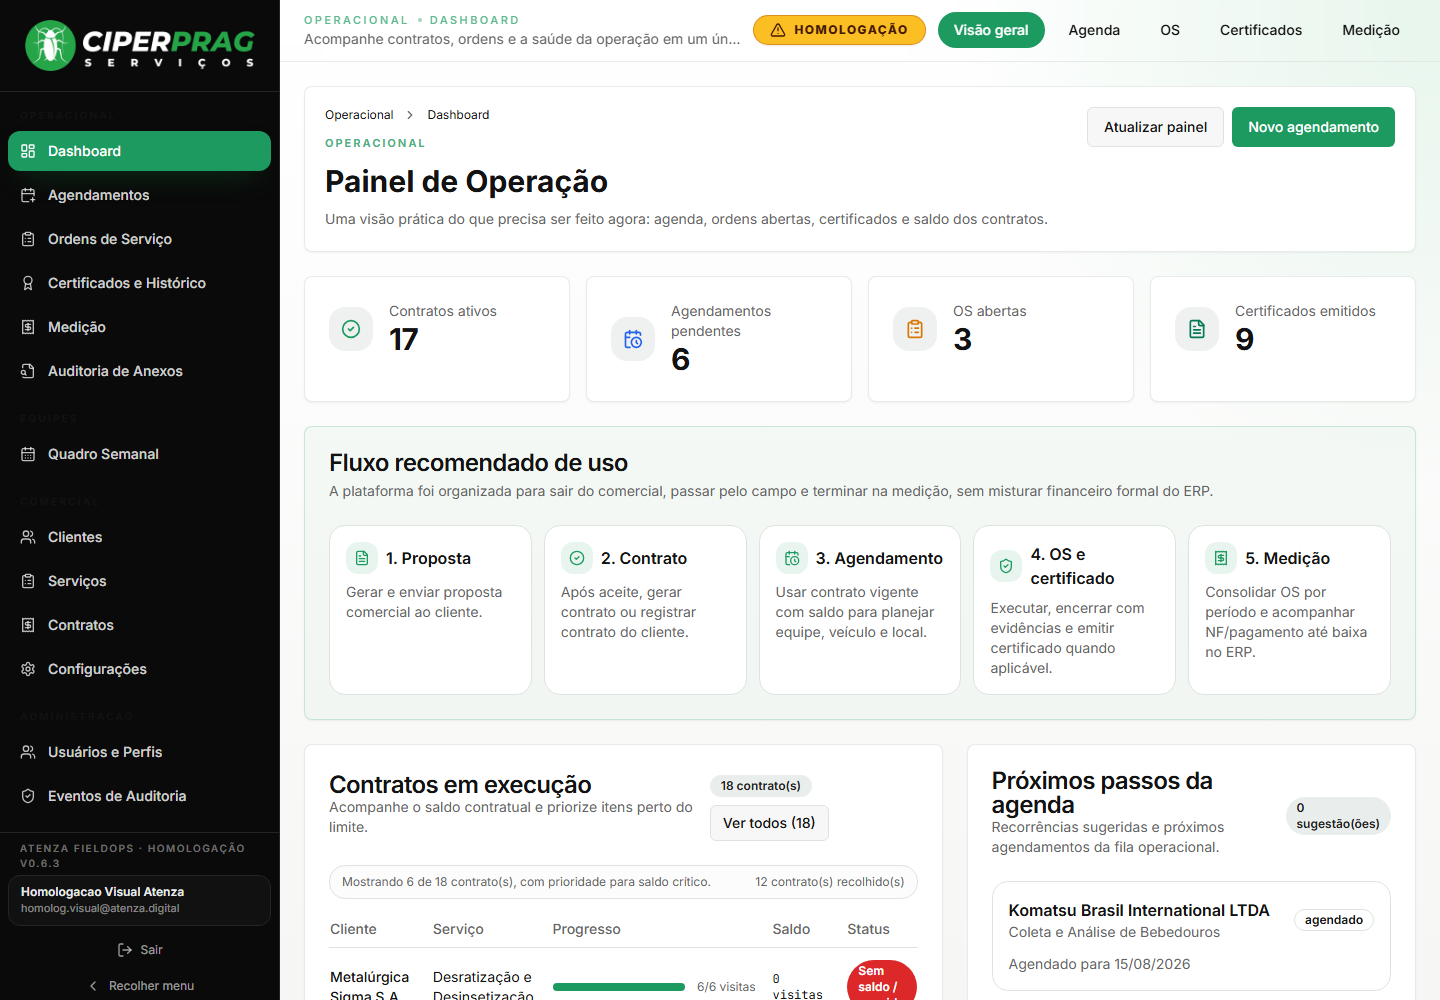
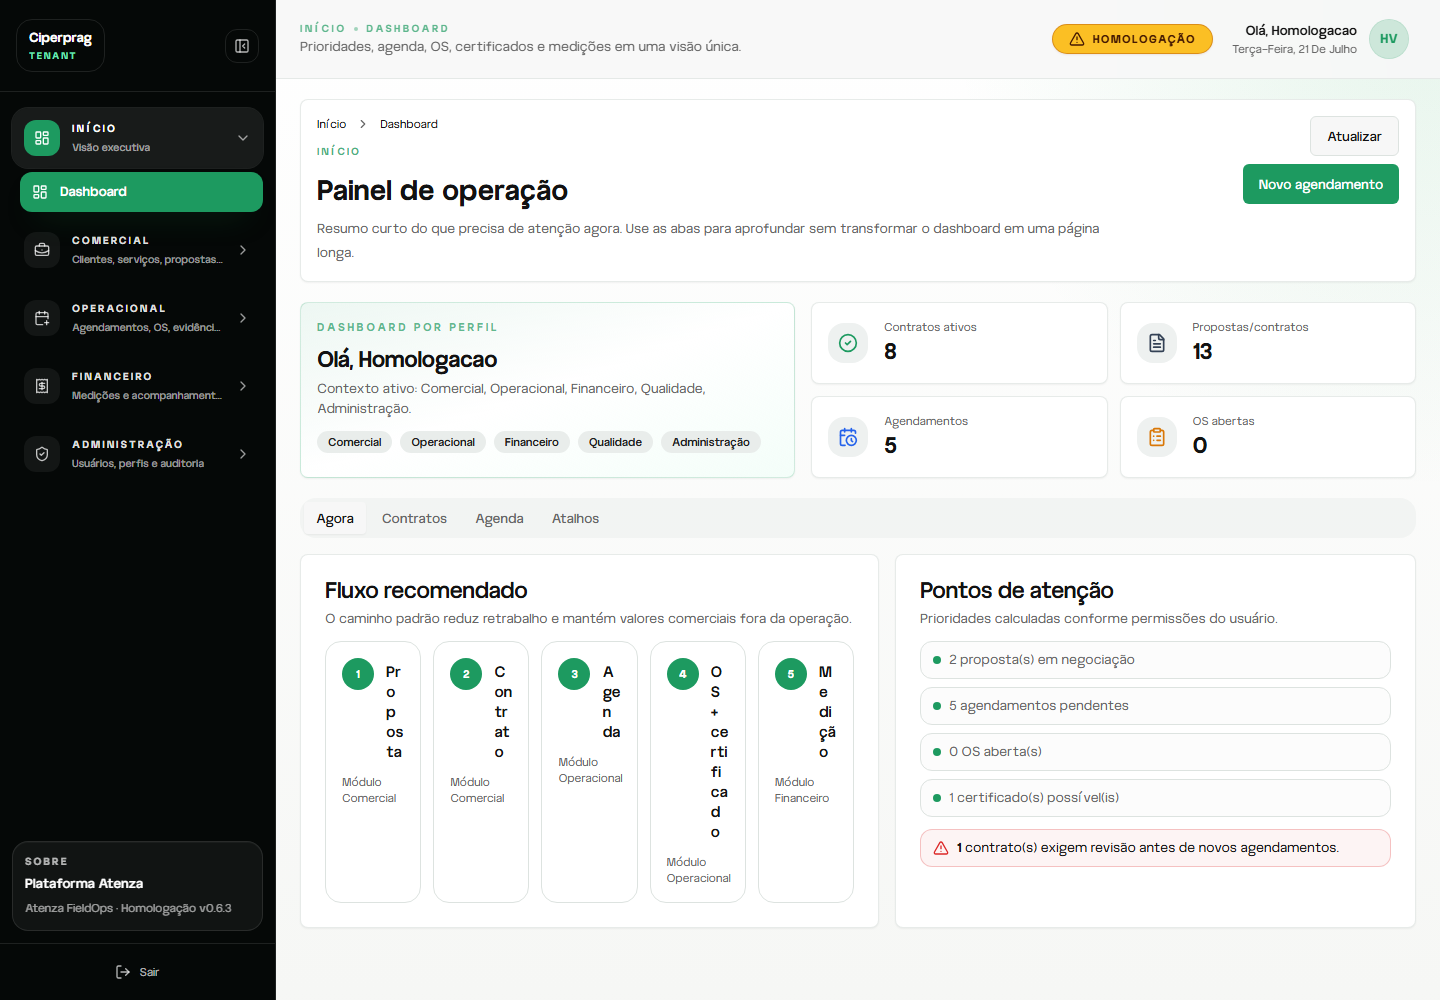
feat: adicionar visoes mensal e anual na agenda

diff --git a/src/pages/Agendamento.tsx b/src/pages/Agendamento.tsx
@@ -17,7 +17,7 @@ import { Badge } from "@/components/ui/badge";
 import { Button } from "@/components/ui/button";
 import { Dialog, DialogContent, DialogHeader, DialogTitle, DialogFooter } from "@/components/ui/dialog";
 import { Checkbox } from "@/components/ui/checkbox";
-import { AlertTriangle, Building2, CalendarPlus, Car, CheckCircle2, ChevronDown, ChevronUp, ClipboardCheck, Clock, FileCheck2, FileText, MapPin, MessageSquare, Printer, ShieldAlert, Tag, User, Users, XCircle } from "lucide-react";
+import { AlertTriangle, Building2, CalendarDays, CalendarPlus, Car, CheckCircle2, ChevronDown, ChevronUp, ClipboardCheck, Clock, FileCheck2, FileText, MapPin, MessageSquare, Printer, ShieldAlert, Tag, User, Users, XCircle } from "lucide-react";
 import { toast } from "sonner";
 import { cn } from "@/lib/utils";
 import { printOsDocument } from "@/lib/osPrint";
@@ -92,6 +92,23 @@ const STATUS_CFG = {
   cancelado: { label: "Cancelado", icon: XCircle, cls: "bg-destructive/5 text-destructive border-destructive/20" },
 } as const;
 
+const WEEKDAY_LABELS = ["Seg", "Ter", "Qua", "Qui", "Sex", "Sáb", "Dom"];
+
+function dateKey(date: Date) {
+  return `${date.getFullYear()}-${String(date.getMonth() + 1).padStart(2, "0")}-${String(date.getDate()).padStart(2, "0")}`;
+}
+
+function monthCalendarDays(year: number, month: number) {
+  const first = new Date(year, month - 1, 1, 12);
+  const mondayOffset = (first.getDay() + 6) % 7;
+  const start = new Date(year, month - 1, 1 - mondayOffset, 12);
+  return Array.from({ length: 42 }, (_, index) => {
+    const day = new Date(start);
+    day.setDate(start.getDate() + index);
+    return day;
+  });
+}
+
 export default function Agendamento() {
   const [data, setData] = useState<BootstrapData | null>(null);
   const [loading, setLoading] = useState(true);
@@ -159,15 +176,23 @@ export default function Agendamento() {
   const locaisContrato = locaisCliente.length ? locaisCliente.map((item) => item.nome) : contratoAtivo?.locais ?? [];
   const veiculoSelecionado = veiculos.find((item) => item.id === veiculoId);
 
-  const agFiltrados = useMemo(() => {
+  const agendamentosBase = useMemo(() => {
     let list = [...agendamentos].reverse();
     if (filtroStatus !== "todos") list = list.filter((item) => item.status === filtroStatus);
     if (filtroCliente) list = list.filter((item) => item.clienteNome.toLowerCase().includes(filtroCliente.toLowerCase()));
+    return list;
+  }, [agendamentos, filtroCliente, filtroStatus]);
+
+  const agFiltrados = useMemo(() => {
+    let list = agendamentosBase;
     if (filtroPeriodo === "mes") {
       list = list.filter((item) => {
         const date = new Date(`${item.dataAgendada}T12:00:00`);
         return String(date.getFullYear()) === filtroAno && String(date.getMonth() + 1).padStart(2, "0") === filtroMes;
       });
+    }
+    if (filtroPeriodo === "ano") {
+      list = list.filter((item) => String(new Date(`${item.dataAgendada}T12:00:00`).getFullYear()) === filtroAno);
     }
     if (filtroPeriodo === "semana") {
       const start = startOfWeek(new Date(`${filtroSemanaBase}T12:00:00`));
@@ -179,7 +204,22 @@ export default function Agendamento() {
       });
     }
     return list;
-  }, [agendamentos, filtroAno, filtroCliente, filtroMes, filtroPeriodo, filtroSemanaBase, filtroStatus]);
+  }, [agendamentosBase, filtroAno, filtroMes, filtroPeriodo, filtroSemanaBase]);
+
+  const calendarioMes = useMemo(() => monthCalendarDays(Number(filtroAno), Number(filtroMes)), [filtroAno, filtroMes]);
+  const eventosPorDia = useMemo(() => {
+    const grouped = new Map<string, AgendamentoApp[]>();
+    agFiltrados.forEach((item) => grouped.set(item.dataAgendada, [...(grouped.get(item.dataAgendada) ?? []), item]));
+    return grouped;
+  }, [agFiltrados]);
+  const resumoAnual = useMemo(() => monthOptions.map(([value, label]) => ({
+    value,
+    label,
+    items: agendamentosBase.filter((item) => {
+      const date = new Date(`${item.dataAgendada}T12:00:00`);
+      return String(date.getFullYear()) === filtroAno && String(date.getMonth() + 1).padStart(2, "0") === value;
+    }),
+  })), [agendamentosBase, filtroAno]);
 
   const counts = useMemo(() => {
     const result: Record<string, number> = { todos: agendamentos.length };
@@ -511,17 +551,20 @@ export default function Agendamento() {
                 <SelectContent>
                   <SelectItem value="mes">Mês</SelectItem>
                   <SelectItem value="semana">Semana</SelectItem>
+                  <SelectItem value="ano">Ano</SelectItem>
                   <SelectItem value="todos">Todos</SelectItem>
                 </SelectContent>
               </Select>
-              {filtroPeriodo === "mes" ? (
+              {filtroPeriodo === "mes" || filtroPeriodo === "ano" ? (
                 <>
-                  <Select value={filtroMes} onValueChange={setFiltroMes}>
-                    <SelectTrigger className="h-9"><SelectValue /></SelectTrigger>
-                    <SelectContent>
-                      {monthOptions.map(([value, label]) => <SelectItem key={value} value={value}>{label}</SelectItem>)}
-                    </SelectContent>
-                  </Select>
+                  {filtroPeriodo === "mes" ? (
+                    <Select value={filtroMes} onValueChange={setFiltroMes}>
+                      <SelectTrigger className="h-9"><SelectValue /></SelectTrigger>
+                      <SelectContent>
+                        {monthOptions.map(([value, label]) => <SelectItem key={value} value={value}>{label}</SelectItem>)}
+                      </SelectContent>
+                    </Select>
+                  ) : <div className="hidden sm:block" />}
                   <Select value={filtroAno} onValueChange={setFiltroAno}>
                     <SelectTrigger className="h-9"><SelectValue /></SelectTrigger>
                     <SelectContent>
@@ -548,9 +591,90 @@ export default function Agendamento() {
         </CardContent>
       </Card>
 
-      {!loading && agFiltrados.length === 0 ? (
+      {!loading && filtroPeriodo === "mes" ? (
+        <Card className="overflow-hidden">
+          <CardContent className="space-y-4 p-4 sm:p-5">
+            <div className="flex flex-wrap items-start justify-between gap-3">
+              <div>
+                <p className="flex items-center gap-2 font-semibold"><CalendarDays className="h-4 w-4 text-primary" /> Calendário mensal</p>
+                <p className="text-sm text-muted-foreground">{monthOptions.find(([value]) => value === filtroMes)?.[1]} de {filtroAno}. Clique em um evento para abrir os detalhes.</p>
+              </div>
+              <Badge variant="secondary">{agFiltrados.length} agendamento(s)</Badge>
+            </div>
+            <div className="overflow-x-auto rounded-xl border">
+              <div className="min-w-[760px]">
+                <div className="grid grid-cols-7 border-b bg-muted/40 text-center text-xs font-semibold text-muted-foreground">
+                  {WEEKDAY_LABELS.map((day) => <div key={day} className="px-2 py-2">{day}</div>)}
+                </div>
+                <div className="grid grid-cols-7">
+                  {calendarioMes.map((day) => {
+                    const key = dateKey(day);
+                    const eventos = eventosPorDia.get(key) ?? [];
+                    const isCurrentMonth = day.getMonth() + 1 === Number(filtroMes);
+                    return (
+                      <div key={key} className={cn("min-h-[112px] border-b border-r p-1.5 align-top", !isCurrentMonth && "bg-muted/20 text-muted-foreground")}>
+                        <div className="flex items-center justify-between px-1 text-xs font-semibold">
+                          <span>{day.getDate()}</span>
+                          {eventos.length > 0 ? <span className="rounded-full bg-primary/10 px-1.5 py-0.5 text-[10px] text-primary">{eventos.length}</span> : null}
+                        </div>
+                        <div className="mt-1 space-y-1">
+                          {eventos.slice(0, 3).map((item) => {
+                            const status = STATUS_CFG[item.status];
+                            return (
+                              <button key={item.id} type="button" onClick={() => setDetalheAgendamentoId(item.id)} className={cn("block w-full truncate rounded-md border px-1.5 py-1 text-left text-[10px] leading-tight transition-colors hover:border-primary hover:bg-primary/5", status?.cls)} title={`${item.clienteNome} — ${item.servico}`}>
+                                <span className="block truncate font-semibold">{item.clienteNome}</span>
+                                <span className="block truncate opacity-80">{item.servico}</span>
+                              </button>
+                            );
+                          })}
+                          {eventos.length > 3 ? <p className="px-1 text-[10px] font-semibold text-muted-foreground">+{eventos.length - 3} outro(s)</p> : null}
+                        </div>
+                      </div>
+                    );
+                  })}
+                </div>
+              </div>
+            </div>
+          </CardContent>
+        </Card>
+      ) : null}
+
+      {!loading && filtroPeriodo === "ano" ? (
+        <Card>
+          <CardContent className="space-y-4 p-4 sm:p-5">
+            <div className="flex flex-wrap items-start justify-between gap-3">
+              <div>
+                <p className="flex items-center gap-2 font-semibold"><CalendarDays className="h-4 w-4 text-primary" /> Visão anual</p>
+                <p className="text-sm text-muted-foreground">Distribuição dos agendamentos de {filtroAno}. Selecione um mês para abrir o calendário detalhado.</p>
+              </div>
+              <Badge variant="secondary">{agendamentosBase.filter((item) => new Date(`${item.dataAgendada}T12:00:00`).getFullYear() === Number(filtroAno)).length} agendamento(s)</Badge>
+            </div>
+            <div className="grid gap-3 sm:grid-cols-2 lg:grid-cols-3 xl:grid-cols-4">
+              {resumoAnual.map((month) => {
+                const statusCount = Object.entries(STATUS_CFG).filter(([status]) => month.items.some((item) => item.status === status));
+                return (
+                  <button key={month.value} type="button" onClick={() => { setFiltroMes(month.value); setFiltroPeriodo("mes"); }} className="rounded-2xl border bg-card p-4 text-left transition-all hover:-translate-y-0.5 hover:border-primary/50 hover:shadow-sm">
+                    <div className="flex items-center justify-between gap-2">
+                      <span className="font-semibold">{month.label}</span>
+                      <span className="rounded-full bg-primary/10 px-2 py-0.5 text-xs font-bold text-primary">{month.items.length}</span>
+                    </div>
+                    <div className="mt-3 h-2 overflow-hidden rounded-full bg-muted">
+                      <div className="h-full rounded-full bg-primary" style={{ width: `${Math.min(100, month.items.length * 18)}%` }} />
+                    </div>
+                    <div className="mt-3 flex flex-wrap gap-1.5">
+                      {statusCount.length > 0 ? statusCount.map(([status, config]) => <span key={status} className="rounded-full bg-muted px-2 py-0.5 text-[10px] text-muted-foreground">{config.label}</span>) : <span className="text-xs text-muted-foreground">Sem agendamentos</span>}
+                    </div>
+                  </button>
+                );
+              })}
+            </div>
+          </CardContent>
+        </Card>
+      ) : null}
+
+      {!loading && filtroPeriodo !== "mes" && filtroPeriodo !== "ano" && agFiltrados.length === 0 ? (
         <Card><CardContent className="flex flex-col items-center justify-center py-14 text-muted-foreground"><Clock className="h-10 w-10 mb-3 opacity-20" /><p className="text-sm font-medium">Nenhum agendamento encontrado</p></CardContent></Card>
-      ) : !loading ? (
+      ) : !loading && filtroPeriodo !== "mes" && filtroPeriodo !== "ano" ? (
         <div className="grid gap-3 sm:grid-cols-2 xl:grid-cols-3">
           {agFiltrados.map((agendamento) => {
             const status = STATUS_CFG[agendamento.status];

diff --git a/docs/backlog/ROADMAP_ETAPAS.md b/docs/backlog/ROADMAP_ETAPAS.md
@@ -226,6 +226,7 @@ Entregue inicialmente em homologacao:
 - Dashboard compactado com abas (`Agora`, `Contratos`, `Agenda`, `Atalhos`) para reduzir rolagem e separar aprofundamento por contexto.
 - Agenda recebeu filtros por mes/semana/todos, ano/mes, busca por cliente e detalhes ao clicar no agendamento.
 - Evoluir a agenda para visualizacoes dedicadas mensal e anual, preservando os filtros e o detalhe de equipe/veiculo aprovados na Etapa 7.
+- Visões mensal e anual da agenda implementadas com calendário de eventos clicáveis, resumo dos 12 meses e evidências em `docs/evidencias/etapa8_agenda/VALIDACAO_AGENDA_VISAOES_2026-07-21.md`; aguardando publicação e smoke em homologação.
 - Navegacao principal passou por novo ajuste de nomenclatura para aproximar nomes de menu, titulo da topbar e titulo das telas.
 - Tela de Equipes e veiculos passou a priorizar cadastro de tecnicos e veiculos, deixando alocacao semanal como apoio visual secundario ate revisao completa do fluxo de agendamentos.
 - Favicon global Atenza reforcado em `index.html` com PNG, ICO, shortcut e apple-touch; CI passou a executar auditoria de branding para impedir retorno de marca fixa de tenant no HTML publico.
@@ -254,7 +255,7 @@ Entregue inicialmente em homologacao:
 - Corrigido drift de schema identificado pelo smoke: `ensureDatabaseShape` agora garante as colunas comerciais de servicos de templates antes das consultas do bootstrap.
 - Saneamento controlado de hashes legados de anexos preparado no CI/CD para homologacao: recalcula somente conteudo local persistido, registra auditoria e mantem o smoke bloqueando divergencias remanescentes.
 
-Backlog da Etapa 8: 37 itens.
+Backlog da Etapa 8: 36 itens.
 
 - Separar formalmente ambientes de homologacao e producao, incluindo identidade visual evidente para evitar uso errado. Decisao SaaS: tela de login padrao deve usar Atenza FieldOps e visual institucional Atenza, sem logo de cliente; tela de login com tenant na URL pode exibir discretamente "Ambiente [cliente]" e logo do cliente em menor destaque; apos login, sidebar e documentos usam logo/configuracao do tenant. Futuro SaaS deve usar `tenants`/`empresa_config` para `logo_url`, `nome_exibicao`, dominio/subdominio e assets documentais. A `cor_primaria` parametrizavel fica restrita aos documentos quando necessario, sem obrigacao de impactar a interface nesta fase. Decisao tipografica: a fonte padrao da interface sera Sora; para escrever o nome da ferramenta como marca/logo, usar as fontes institucionais da Atenza localizadas em `C:\Projetos\Atenza\site_atenza\public\@font-faces`.
 - Implementar PDF server-side binario final de OS, certificado, medicao, proposta e contrato com renderizacao fiel aos templates aprovados.

diff --git a/docs/evidencias/etapa8_agenda/VALIDACAO_AGENDA_VISAOES_2026-07-21.md b/docs/evidencias/etapa8_agenda/VALIDACAO_AGENDA_VISAOES_2026-07-21.md
@@ -1,0 +1,33 @@
+# Validação da agenda — visões mensal e anual
+
+## Escopo
+
+Implementação do item transferido da Etapa 7 para a Etapa 8 após a aprovação funcional do Tarcísio. A agenda mantém a lista operacional para semana e todos, e passa a oferecer duas visões dedicadas.
+
+## Entregue
+
+- Visão mensal em calendário de segunda a domingo.
+- Eventos exibidos dentro do dia, com cliente, serviço e status.
+- Clique no evento abre o detalhe existente do agendamento.
+- Mais de três eventos no mesmo dia são resumidos com contador adicional.
+- Visão anual com os 12 meses, volume por mês e status encontrados.
+- Clique em um mês da visão anual abre o calendário mensal correspondente.
+- Filtros de ano, mês, status e cliente preservados.
+- Visual responsivo com rolagem horizontal controlada no calendário em telas menores.
+
+## Evidências visuais
+
+- Mensal: `docs/evidencias/etapa7_homologacao/prints_visuais/agenda-visao-mensal.png`
+- Anual: `docs/evidencias/etapa7_homologacao/prints_visuais/agenda-visao-anual.png`
+
+## Testes
+
+- `npx eslint src/pages/Agendamento.tsx`: aprovado.
+- `npm run build`: aprovado.
+- `npm test -- --run`: aprovado.
+- `npm run homologation:visual-check`: aprovado, com login de homologação criado temporariamente e banco local Docker.
+- O roteiro visual confirmou a presença de `Visão anual` e `Calendário mensal` após alternância pelo seletor de período.
+
+## Situação
+
+Implementação validada localmente. A publicação em homologação e o smoke público devem ser concluídos antes de reduzir o backlog da Etapa 8.
